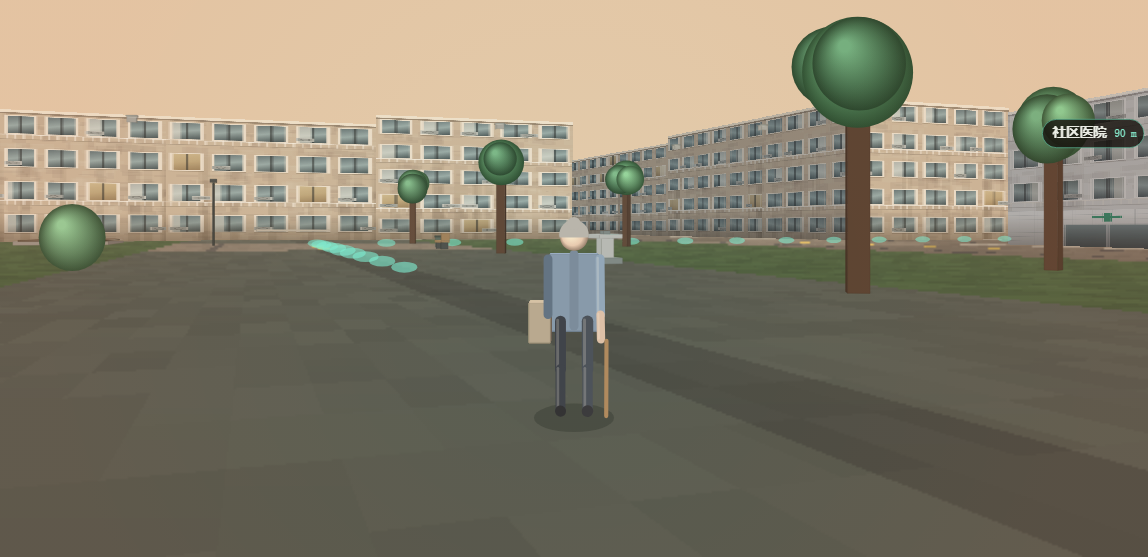
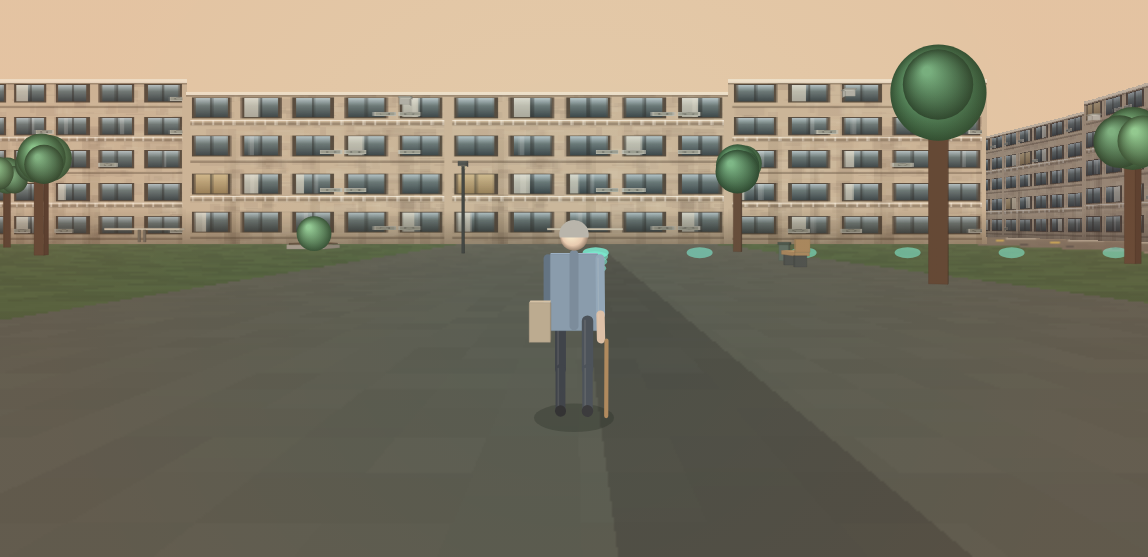
fix(coolpath): 清除公园内公路（西入口改步道、医院东侧街移出园外）

Changed region(s): [[0.0, 0.0305, 1.0, 0.5494], [0.4573, 0.5189, 0.5183, 0.6409]]

diff --git a/climate-hackathon/coolpath/coolpath.html b/climate-hackathon/coolpath/coolpath.html
@@ -1687,9 +1687,9 @@ footer{border-top:1px solid var(--line);padding:44px 0 60px;margin-top:30px}
       rect(0,12,W-1,12,".");        /* 南街 */
       rect(0,7,W-1,7,".");          /* 中街 */
       rect(4,7,4,12,".");           /* 西纵街 */
-      rect(10,5,10,7,".");          /* 公园西入口 */
+      rect(10,5,10,7,"s");          /* 公园西入口步道 */
       rect(10,5,16,5,"s");          /* 公园北径 */
-      rect(15,5,15,9,".");          /* 医院东侧街 */
+      rect(15,8,15,9,".");          /* 医院东侧街（不穿公园） */
       rect(11,9,15,9,".");          /* 医院前场 */
       rect(11,3,16,4,"g");          /* 公园草坪 */
       rect(11,6,16,6,"g");

diff --git a/climate-hackathon/coolpath/shot_sim.py b/climate-hackathon/coolpath/shot_sim.py
@@ -61,6 +61,8 @@ if __name__ == "__main__":
         "start":  {"x":2.5,  "y":12.5, "a":0.0,  "wait":420},
         "street": {"x":4.5,  "y":10.6, "a":-1.35,"wait":420},
         "park":   {"x":12.6, "y":5.4,  "a":0.35, "wait":420},
+        "parkE":  {"x":13.8, "y":5.45,"a":0.0,  "wait":420},
+        "parkW":  {"x":11.2, "y":5.45,"a":3.14, "wait":420},
         "goal":   {"x":13.0, "y":9.75, "a":-1.57,"wait":420},
         "door":   {"x":13.0, "y":9.30, "a":-1.57,"wait":420},
         "arrive": {"x":13.0, "y":9.04, "a":-1.57,"wait":600},
